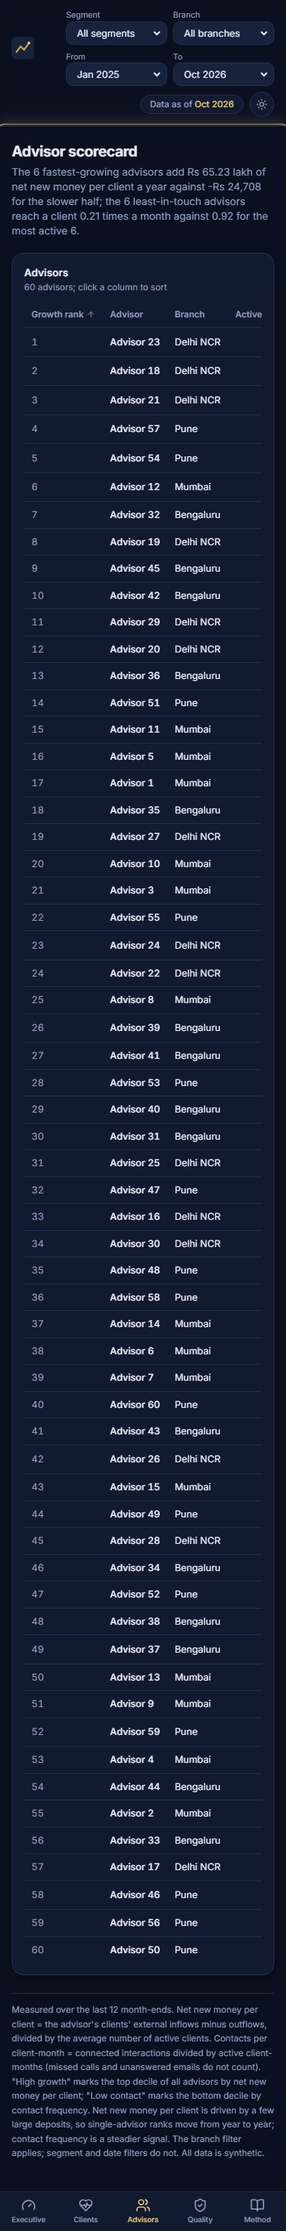
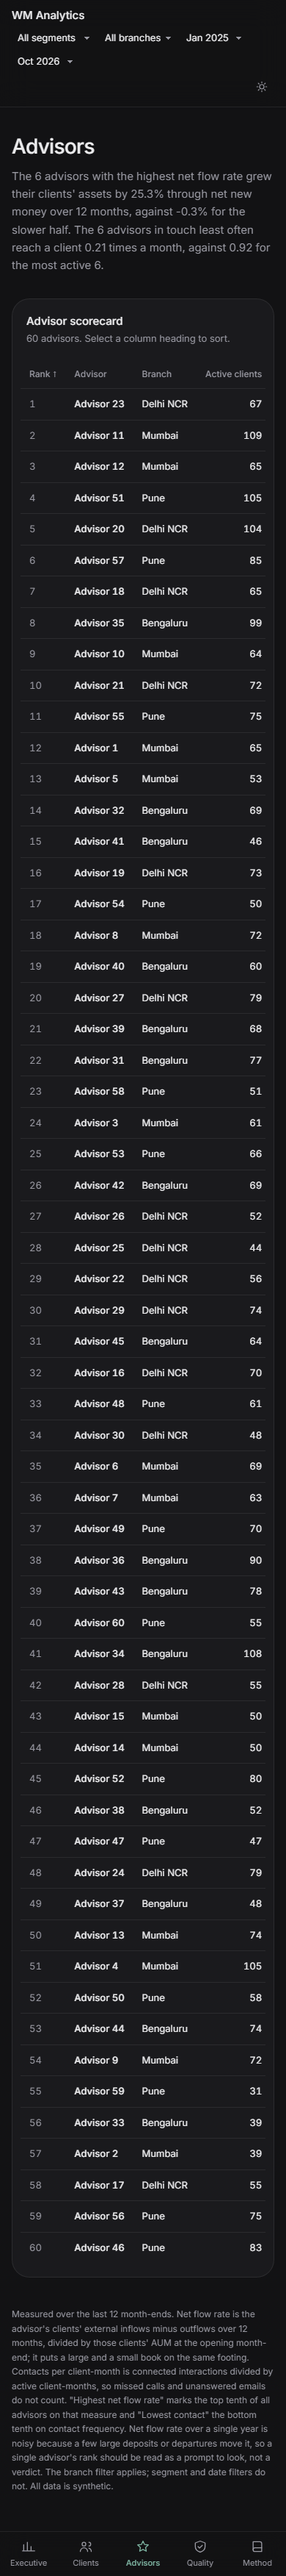
Update documentation, screenshots and regenerated reports

Changed region(s): [[0.0, 0.0, 1.0, 1.0]]

diff --git a/docs/dashboard_qa.md b/docs/dashboard_qa.md
@@ -23,40 +23,41 @@ Month-end 2026-10-31. The SQL side reads the mart tables directly for the headli
 | Data quality: planted defects caught equals rows in the exceptions table | 18,198 | 18,198 | PASS |
 | Data quality: rows logged and kept out of the KPIs (exceptions minus repaired KYC rows) | 18,073 | 18,073 | PASS |
 | Data quality: staged rows | 7,70,759 | 7,70,759 | PASS |
-| Advisors: top growth advisor (23) NNM per client | Rs 97.88 lakh | Rs 97.88 lakh | PASS |
+| Advisors: net flow rate of the top-ranked advisor (23) | 43.0% | 43.0% | PASS |
 
 **16 of 16 match.**
 
 ## Lighthouse
 
-Edge (Chromium) headless against the production build served by `vite preview`; each page run 3 times, median reported. Mobile uses Lighthouse's default throttling (4x CPU slowdown, slow 4G). Scores on this machine vary between runs, so the individual performance runs are shown. The Client Health mobile row was re-measured (3 runs) after deferring the heatmap until it scrolls into view; the other rows come from the earlier full run on the same build otherwise. Desktop passes 90 on every page except Client Health (85); mobile scores are 72 to 89 because of the chart library bundle under 4x CPU throttling, so the aim of 90+ performance is met on desktop only (4 of 5 pages) and not on mobile.
+Edge (Chromium) headless against the production build served by `vite preview`. Mobile pages were run 5 times each and desktop pages 3 times; the median is reported with every individual performance run. Mobile uses Lighthouse's default throttling (4x CPU slowdown, slow 4G). The charts are hand-built SVG, the only runtime dependency is React, the font is a self-hosted 18 KB subset embedded in the stylesheet, and each page loads only its own JSON.
 
 | Form | Page | Performance (runs) | Accessibility | Best practices | SEO | LCP ms | TBT ms |
 |---|---|---|---|---|---|---:|---:|
-| desktop | executive | 100 (100/100/100) | 100 | 100 | 100 | 677 | 4 |
-| desktop | client-health | 85 (85/85/100) | 100 | 100 | 100 | 733 | 0 |
-| desktop | advisors | 100 (100/100/100) | 100 | 100 | 100 | 550 | 0 |
-| desktop | data-quality | 100 (100/100/100) | 100 | 100 | 100 | 557 | 0 |
-| desktop | methodology | 100 (100/100/99) | 100 | 100 | 100 | 566 | 0 |
-| mobile | executive | 84 (84/84/84) | 100 | 100 | 100 | 3119 | 30 |
-| mobile | client-health | 72 (71/72/72) | 100 | 100 | 100 | 3305 | 102 |
-| mobile | advisors | 73 (73/95/41) | 100 | 100 | 100 | 2930 | 596 |
-| mobile | data-quality | 84 (83/97/84) | 100 | 100 | 100 | 2359 | 379 |
-| mobile | methodology | 89 (64/95/89) | 100 | 100 | 100 | 2217 | 174 |
+| desktop | executive | 98 (98/98/98) | 100 | 100 | 100 | 492 | 0 |
+| desktop | client-health | 98 (98/98/98) | 100 | 100 | 100 | 498 | 0 |
+| desktop | advisors | 98 (98/98/98) | 100 | 100 | 100 | 484 | 0 |
+| desktop | data-quality | 98 (98/98/98) | 100 | 100 | 100 | 471 | 0 |
+| desktop | methodology | 98 (98/98/98) | 100 | 100 | 100 | 478 | 0 |
+| mobile | executive | 99 (99/99/99/99/99) | 100 | 100 | 100 | 1829 | 13 |
+| mobile | client-health | 99 (99/99/99/96/98) | 100 | 100 | 100 | 1978 | 7 |
+| mobile | advisors | 99 (99/99/99/99/99) | 100 | 100 | 100 | 1825 | 0 |
+| mobile | data-quality | 99 (99/99/99/99/99) | 100 | 100 | 100 | 1821 | 0 |
+| mobile | methodology | 99 (99/99/99/99/99) | 100 | 100 | 100 | 1972 | 6 |
 
 ## Browser checks
 
-`dashboards/web/scripts/screenshots.mjs` opened every page in dark, light and a 390 px mobile viewport. It fails on any console error, failed request or horizontal scroll; the last run reported none. Charts are mounted lazily as they scroll into view, so the script resizes the viewport to the full page height before capturing.
+`dashboards/web/scripts/screenshots.mjs` opened every page in dark, light and a 390 px mobile viewport. It fails on any console error, failed request or horizontal scroll; the last run reported none. Charts mount as they scroll into view, so the script resizes the viewport to the full page height before capturing.
 
 Screenshots (`docs/screenshots/`): advisors-dark.png, advisors-light.png, advisors-mobile.png, client-health-dark.png, client-health-light.png, client-health-mobile.png, data-quality-dark.png, data-quality-light.png, data-quality-mobile.png, executive-dark.png, executive-light.png, executive-mobile.png, methodology-dark.png, methodology-light.png, methodology-mobile.png
 
 ## Defects found and fixed while inspecting the screenshots
 
-- Mobile: grid cards grew wider than the screen because a wide table or heatmap sat inside a grid column; fixed with `min-w-0` and single-column grids.
-- Charts looked empty in full-page captures because resizing the viewport restarted their mount animation; the capture script now resizes first and waits.
-- Y-axis labels wrapped onto two lines and the allocation axis showed 100.01%; widened the axes and rounded the ticks.
-- Light theme: gold, green and heatmap text failed the contrast audit; darkened the light-theme colours and simplified heatmap text colour.
+- The first mobile Lighthouse runs scored 84 because a late-arriving font reflowed the text (layout shift 0.31); embedding the font in the stylesheet removed the shift and raised every mobile page to 99.
+- Y-axis labels were clipped on narrow screens and the end-of-axis month labels overlapped; margins and label spacing now adapt to the chart width, and series names move into a legend row on phones.
+- The risk donut was squeezed in a flex row; it no longer shrinks.
+- A focus outline showed around the whole page after navigation; it is now suppressed on the main container only, while every control keeps a visible focus ring.
 - Cohort retention showed 0% for January 2025 joiners because the generator creates no holdings for them; the cohort is excluded from the view and the reason is documented.
+
 ## Live site check
 
-After the first deployment, the published site (https://anjalirawat8181-spec.github.io/wm-client-analytics/) was opened in a real browser with `BASE_URL=<live url> PREFIX=live- MODES=dark node scripts/screenshots.mjs`. All 5 pages loaded, charts rendered, there were no console errors, failed requests or horizontal scroll, and `data/meta.json` on the live site carried the build time and commit of the deployment. Screenshots: live-advisors-dark.png, live-client-health-dark.png, live-data-quality-dark.png, live-executive-dark.png, live-methodology-dark.png
+After the first deployment, the published site (https://anjalirawat8181-spec.github.io/wm-client-analytics/) was opened in a real browser with `BASE_URL=<live url> PREFIX=live- MODES=dark node scripts/screenshots.mjs`. All 5 pages loaded, charts rendered, there were no console errors, failed requests or horizontal scroll, and `data/meta.json` on the live site carried the build time and commit of the deployment. Screenshots: 

diff --git a/docs/jira_mapping.md b/docs/jira_mapping.md
@@ -4,17 +4,17 @@ Ticket titles for WMCA-8 to WMCA-13 are taken from the board screenshots in `doc
 
 | Ticket | Title (source) | Commits | Files |
 |---|---|---|---|
-| WMCA-8 | Set up repo, Neon DB, and connection test (board) | `9c388ac` Initial scaffold | `automation/test_connection.py`, `requirements.txt`, `.gitignore` |
-| WMCA-9 | Write KPI dictionary (board) | `e8cf89d`, `1b64692` | `docs/kpi_dictionary.md`, `docs/jira_backlog.jpg`, `docs/jira_sprint1.jpg` |
-| WMCA-10 | Write data design notes (board) | `9c388ac` | `docs/data_design_notes.md` |
-| WMCA-11 | Audit and fix Step 1 deliverables (board) | `219b83d` | `docs/kpi_dictionary.md`, `docs/data_design_notes.md` |
-| WMCA-12 | Write DDL for staging and mart schemas (board) | `6b2d02e` | `sql/schema/01_create_schemas.sql`, `02_staging_tables.sql`, `03_mart_tables.sql`, `automation/apply_schema.py`, `automation/verify_schema.py` |
-| WMCA-13 | Draw ER diagram (board) | `6b2d02e` | `docs/er-diagram.png`, `docs/er_diagram.mmd`, `docs/er_diagram.dbml`, `docs/er_diagram.md` |
-| WMCA-14 | Title not available to me. Repository evidence: synthetic data generator | `f1dc74e` | `data_generation/generate.py`, `config.py`, `check_clean_data.py` |
-| WMCA-15 | Title not available to me. Repository evidence: staging load and pattern validation | `dcf0b15`, `13b5add`, `05f447a`, `e093683` | `data_generation/load_staging.py`, `validate_patterns.py`, `docs/pattern_validation.md`, `docs/data_generation_notes.md` |
-| WMCA-16 | Staging to mart ETL (commit message) | `48fb314` | `sql/etl/01..07_*.sql`, `sql/schema/04_populate_dim_date.sql`, `automation/run_etl.py`, `automation/db.py` |
-| WMCA-17 | Analytics views, validation and index demo (commit message) | `afaa7ec` | `sql/analytics/*.sql`, `automation/apply_analytics.py`, `validate_analytics.py`, `optimization_demo.py`, `sql/schema/05_performance_indexes.sql`, `docs/analytics_validation.md`, `docs/query_optimization.md` |
-| WMCA-18 | Data quality checks and scorecard (commit message) | `62c6389` | `sql/data_quality/business_rules.sql`, `automation/dq_report.py`, `docs/dq_scorecard.md`, `reports/dq_scorecard.json` |
+| WMCA-8 | Set up repo, Neon DB, and connection test (board) | `9d4c086` Initial scaffold | `automation/test_connection.py`, `requirements.txt`, `.gitignore` |
+| WMCA-9 | Write KPI dictionary (board) | `494f311`, `d7e548b` | `docs/kpi_dictionary.md`, `docs/jira_backlog.jpg`, `docs/jira_sprint1.jpg` |
+| WMCA-10 | Write data design notes (board) | `9d4c086` | `docs/data_design_notes.md` |
+| WMCA-11 | Audit and fix Step 1 deliverables (board) | `c36b168` | `docs/kpi_dictionary.md`, `docs/data_design_notes.md` |
+| WMCA-12 | Write DDL for staging and mart schemas (board) | `cecba81` | `sql/schema/01_create_schemas.sql`, `02_staging_tables.sql`, `03_mart_tables.sql`, `automation/apply_schema.py`, `automation/verify_schema.py` |
+| WMCA-13 | Draw ER diagram (board) | `cecba81` | `docs/er-diagram.png`, `docs/er_diagram.mmd`, `docs/er_diagram.dbml`, `docs/er_diagram.md` |
+| WMCA-14 | Title not available to me. Repository evidence: synthetic data generator | `ea65319` | `data_generation/generate.py`, `config.py`, `check_clean_data.py` |
+| WMCA-15 | Title not available to me. Repository evidence: staging load and pattern validation | `8e8c011`, `7a8fc86`, `0825968`, `a281c8f` | `data_generation/load_staging.py`, `validate_patterns.py`, `docs/pattern_validation.md`, `docs/data_generation_notes.md` |
+| WMCA-16 | Staging to mart ETL (commit message) | `0a2bbc2` | `sql/etl/01..07_*.sql`, `sql/schema/04_populate_dim_date.sql`, `automation/run_etl.py`, `automation/db.py` |
+| WMCA-17 | Analytics views, validation and index demo (commit message) | `43db26b` | `sql/analytics/*.sql`, `automation/apply_analytics.py`, `validate_analytics.py`, `optimization_demo.py`, `sql/schema/05_performance_indexes.sql`, `docs/analytics_validation.md`, `docs/query_optimization.md` |
+| WMCA-18 | Data quality checks and scorecard (commit message) | `bdb68be` | `sql/data_quality/business_rules.sql`, `automation/dq_report.py`, `docs/dq_scorecard.md`, `reports/dq_scorecard.json` |
 | WMCA-19 | Premium web dashboard (commit messages) | see `git log --grep WMCA-19` | `automation/export_dashboard_data.py`, `dashboards/web/`, `dashboards/tableau_extracts/`, `docs/screenshots/`, `docs/dashboard_qa.md` |
 | WMCA-20 | Title not available to me. Not mapped; the Tableau extracts exist but no Tableau workbook was built | none | `dashboards/tableau_extracts/*.csv` only |
 | WMCA-21 | Weekly pipeline, Excel report, CI and Pages deployment (commit messages) | see `git log --grep WMCA-21` | `automation/refresh_pipeline.py`, `build_weekly_report.py`, `.github/workflows/ci.yml`, `deploy.yml`, `tests/` |

diff --git a/README.md b/README.md
@@ -5,7 +5,7 @@
 
 **Which clients are we about to lose, and how would we know in time?** A wealth-management analytics project: synthetic client data, a governed pipeline with proof that the data is clean, a written KPI dictionary, SQL analytics, and a live dashboard that rebuilds itself every week.
 
-![Executive dashboard](docs/screenshots/executive-dark.png)
+![Executive dashboard](docs/screenshots/executive-light.png)
 
 ## Live dashboard
 
@@ -30,7 +30,7 @@ All figures are generated by the pipeline (sources in brackets). The patterns we
 - Clients not contacted for 90+ days leave **3.3x** as often as those contacted within 30 days (2.18% vs 0.67% a month) [`analytics.v_contact_gap_attrition`].
 - Mass Affluent clients leave about **2x** as often as HNI and **8x** as often as UHNI (1.26%, 0.61%, 0.16% a month) [`analytics.v_attrition_monthly`].
 - A client whose AUM falls by more than 50% over three month-ends leaves the next month **87.9%** of the time [`analytics.v_flags`]. See [docs/insights_memo.md](docs/insights_memo.md).
-- Advisors reach clients between 0.12 and 1.07 times per client-month; all five planted low-contact advisors were found [docs/analytics_validation.md](docs/analytics_validation.md).
+- Advisors reach clients between 0.12 and 1.07 times per client-month; all five planted low-contact advisors were found, while ranking by net flow rate found only 2 of the 5 planted high-growth advisors in the top ten [docs/analytics_validation.md](docs/analytics_validation.md).
 
 ## Architecture
 
@@ -110,7 +110,7 @@ In CI the database URL comes only from the repository secret `DATABASE_URL`. The
 
 ## Tech stack
 
-PostgreSQL (Neon), SQL (views, window functions, CTEs), Python (pandas, psycopg2, SQLAlchemy, openpyxl, Faker), React 18, TypeScript, Vite, Tailwind CSS, Recharts, Vitest, Playwright, Lighthouse, GitHub Actions and Pages.
+PostgreSQL (Neon), SQL (views, window functions, CTEs), Python (pandas, psycopg2, SQLAlchemy, openpyxl, Faker), React 18, TypeScript, Vite, Tailwind CSS, hand-built SVG charts, Vitest, Playwright, Lighthouse, GitHub Actions and Pages.
 
 ## Repo structure
 
@@ -134,7 +134,7 @@ More: [docs/brd.md](docs/brd.md), [docs/user_stories.md](docs/user_stories.md), 
 
 - **Synthetic data.** Patterns are found because they were planted. Nothing here shows how a real firm behaves.
 - **Snapshot dashboard.** It shows the data as of the last build, not a live feed.
-- **Known gaps, reported not hidden.** Only 1 of 5 planted high-growth advisors appears in the top ten by net new money per client (a noisy measure); clients onboarded in January 2025 have no holdings in the generator; returning clients are not simulated; Lighthouse performance is 72 to 89 on mobile and 85 to 100 on desktop (accessibility, best practices and SEO are 100 on every page), see [docs/dashboard_qa.md](docs/dashboard_qa.md).
+- **Known gaps, reported not hidden.** Only 2 of 5 planted high-growth advisors appear in the top ten by net flow rate (a noisy measure over one year); clients onboarded in January 2025 have no holdings in the generator; returning clients are not simulated; Lighthouse scores 99 for performance on mobile (median of 5 runs per page) and 98 on desktop, with 100 for accessibility, best practices and SEO on every page, see [docs/dashboard_qa.md](docs/dashboard_qa.md).
 
 ## What to do next
 

diff --git a/docs/dq_scorecard.md b/docs/dq_scorecard.md
@@ -1,6 +1,6 @@
 # Data Quality Scorecard
 
-Generated by `automation/dq_report.py` at 2026-11-09T14:00:47+00:00. Every figure comes from the database and the generator's answer key (`data_generation/output/truth/dirty_manifest.csv`).
+Generated by `automation/dq_report.py` at 2026-11-09T17:22:52+00:00. Every figure comes from the database and the generator's answer key (`data_generation/output/truth/dirty_manifest.csv`).
 
 **Overall:** 34 of 35 rules pass; 0 strict failures.
 
